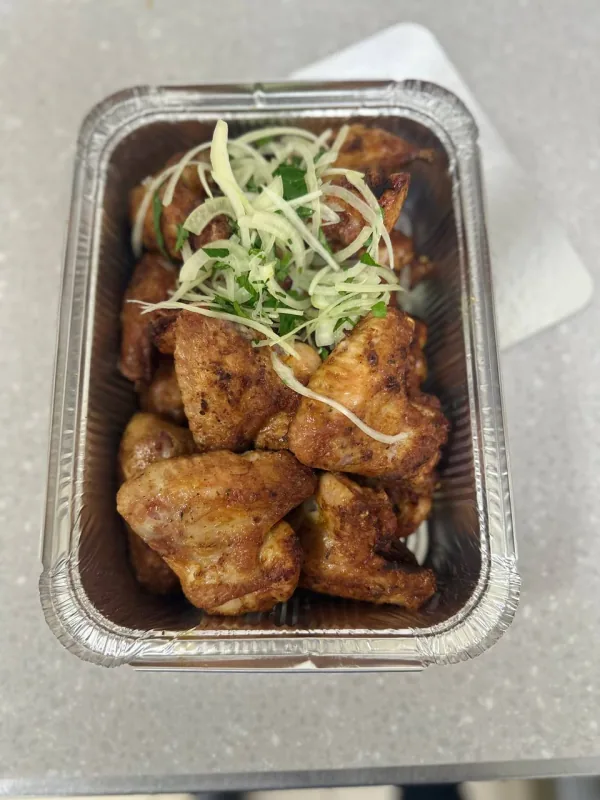
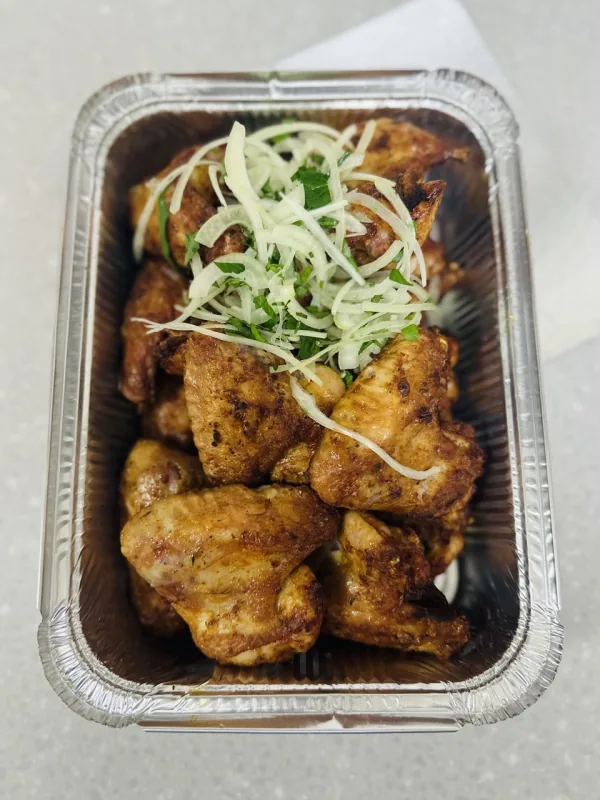
feat(delivery): add confirmed portion photos for neck wings and lyulya

diff --git a/delivery/index.html b/delivery/index.html
@@ -48,8 +48,7 @@
         <h3>Свиная шея</h3>
         <div class="dish-portions">
           <figure class="dish-portion" data-portion="200">
-            <!-- TODO-PHOTO: pork-neck, 200 g. -->
-            <div class="dish-photo"><svg width="32" height="32" aria-hidden="true"><use href="#camera"></use></svg><span>Фото порции<br>пока нет</span></div>
+            <div class="dish-photo"><img src="/assets/menu/pork-neck-200g.webp" alt="Свиная шея — 200 г, с луком и зеленью в контейнере" width="600" height="800" loading="lazy" decoding="async"></div>
             <figcaption><dl class="dish-prices"><div><dt>200 г</dt><dd><data value="300">300&nbsp;₽</data></dd></div></dl></figcaption>
           </figure>
           <figure class="dish-portion" data-portion="1000">
@@ -127,14 +126,17 @@
           </figure>
         </div>
       </article>
-      <article class="dish" data-dish="chicken-wings">
-        <div class="dish-photo"><img src="/assets/menu/chicken-wings.webp" alt="Куриные крылья с луком и зеленью в контейнере" width="600" height="800" loading="lazy" decoding="async"></div>
-        <div class="dish-main">
-          <h3>Куриные крылья</h3>
-          <dl class="dish-prices">
-            <div><dt>200 г</dt><dd><data value="280">280&nbsp;₽</data></dd></div>
-            <div><dt>1 кг</dt><dd><data value="1000">1 000&nbsp;₽</data></dd></div>
-          </dl>
+      <article class="dish dish-paired" data-dish="chicken-wings">
+        <h3>Куриные крылья</h3>
+        <div class="dish-portions">
+          <figure class="dish-portion" data-portion="200">
+            <div class="dish-photo"><img src="/assets/menu/chicken-wings.webp" alt="Куриные крылья — 200 г, с луком и зеленью в контейнере" width="600" height="800" loading="lazy" decoding="async"></div>
+            <figcaption><dl class="dish-prices"><div><dt>200 г</dt><dd><data value="280">280&nbsp;₽</data></dd></div></dl></figcaption>
+          </figure>
+          <figure class="dish-portion" data-portion="1000">
+            <div class="dish-photo"><img src="/assets/menu/chicken-wings-1kg.webp" alt="Куриные крылья — 1 кг, с луком и зеленью в контейнере" width="600" height="800" loading="lazy" decoding="async"></div>
+            <figcaption><dl class="dish-prices"><div><dt>1 кг</dt><dd><data value="1000">1 000&nbsp;₽</data></dd></div></dl></figcaption>
+          </figure>
         </div>
       </article>
       <article class="dish" data-dish="salmon-steak">
@@ -147,24 +149,30 @@
           </dl>
         </div>
       </article>
-      <article class="dish" data-dish="lyulya-pork-beef">
-        <div class="dish-photo"><img src="/assets/menu/lyulya-pork-beef.webp" alt="Люля из свинины и говядины с луком и зеленью в контейнере" width="600" height="800" loading="lazy" decoding="async"></div>
-        <div class="dish-main">
-          <h3>Люля из свинины и говядины</h3>
-          <dl class="dish-prices">
-            <div><dt>200 г</dt><dd><data value="390">390&nbsp;₽</data></dd></div>
-            <div><dt>1 кг</dt><dd><data value="1400">1 400&nbsp;₽</data></dd></div>
-          </dl>
+      <article class="dish dish-paired" data-dish="lyulya-pork-beef">
+        <h3>Люля из свинины и говядины</h3>
+        <div class="dish-portions">
+          <figure class="dish-portion" data-portion="200">
+            <div class="dish-photo"><img src="/assets/menu/lyulya-pork-beef.webp" alt="Люля из свинины и говядины — 200 г, с луком и зеленью в контейнере" width="600" height="800" loading="lazy" decoding="async"></div>
+            <figcaption><dl class="dish-prices"><div><dt>200 г</dt><dd><data value="390">390&nbsp;₽</data></dd></div></dl></figcaption>
+          </figure>
+          <figure class="dish-portion" data-portion="1000">
+            <div class="dish-photo"><img src="/assets/menu/lyulya-pork-beef-1kg.webp" alt="Люля из свинины и говядины — 1 кг, с луком и зеленью в контейнере" width="600" height="800" loading="lazy" decoding="async"></div>
+            <figcaption><dl class="dish-prices"><div><dt>1 кг</dt><dd><data value="1400">1 400&nbsp;₽</data></dd></div></dl></figcaption>
+          </figure>
         </div>
       </article>
-      <article class="dish" data-dish="lyulya-beef-lamb">
-        <div class="dish-photo"><img src="/assets/menu/lyulya-beef-lamb.webp" alt="Люля из говядины и баранины с луком и зеленью" width="600" height="800" loading="lazy" decoding="async"></div>
-        <div class="dish-main">
-          <h3>Люля из говядины и баранины</h3>
-          <dl class="dish-prices">
-            <div><dt>200 г</dt><dd><data value="390">390&nbsp;₽</data></dd></div>
-            <div><dt>1 кг</dt><dd><data value="1500">1 500&nbsp;₽</data></dd></div>
-          </dl>
+      <article class="dish dish-paired" data-dish="lyulya-beef-lamb">
+        <h3>Люля из говядины и баранины</h3>
+        <div class="dish-portions">
+          <figure class="dish-portion" data-portion="200">
+            <div class="dish-photo"><img src="/assets/menu/lyulya-beef-lamb.webp" alt="Люля из говядины и баранины — 200 г, с луком и зеленью в контейнере" width="600" height="800" loading="lazy" decoding="async"></div>
+            <figcaption><dl class="dish-prices"><div><dt>200 г</dt><dd><data value="390">390&nbsp;₽</data></dd></div></dl></figcaption>
+          </figure>
+          <figure class="dish-portion" data-portion="1000">
+            <div class="dish-photo"><img src="/assets/menu/lyulya-beef-lamb-1kg.webp" alt="Люля из говядины и баранины — 1 кг, с луком и зеленью в контейнере" width="600" height="800" loading="lazy" decoding="async"></div>
+            <figcaption><dl class="dish-prices"><div><dt>1 кг</dt><dd><data value="1500">1 500&nbsp;₽</data></dd></div></dl></figcaption>
+          </figure>
         </div>
       </article>
       <article class="dish" data-dish="lyulya-chicken">

diff --git a/tests/test_delivery_photos.py b/tests/test_delivery_photos.py
@@ -13,7 +13,8 @@ PHOTO_DISHES = {
     'grilled-vegetables', 'pizza-pepperoni',
     'chicken-wings', 'grilled-mushrooms', 'khachapuri-adjarian', 'pizza-ham',
 }
-PAIRED_PHOTOS = {'chicken-fillet', 'chicken-assortment', 'lamb-on-bone'}
+PAIRED_PHOTOS = {'chicken-fillet', 'chicken-assortment', 'lamb-on-bone', 'pork-neck',
+                 'chicken-wings', 'lyulya-pork-beef', 'lyulya-beef-lamb'}
 
 
 class MenuParser(HTMLParser):
@@ -52,12 +53,15 @@ class DeliveryPhotosTest(unittest.TestCase):
         menu = MenuParser()
         menu.feed((ROOT / 'delivery/index.html').read_text())
         expected = {
-            'pork-neck': [('200', '300', None), ('1000', '1430', 'pork-neck.webp')],
+            'pork-neck': [('200', '300', 'pork-neck-200g.webp'), ('1000', '1430', 'pork-neck.webp')],
             'pork-ribs': [('200', '300', None), ('1000', '1430', None)],
             'chicken-assortment': [('200', '260', 'chicken-assortment.webp'), ('1000', '950', 'chicken-assortment-1kg.webp')],
             'pork-loin': [('200', '300', None), ('1000', '1430', None)],
             'chicken-fillet': [('200', '280', 'chicken-fillet.webp'), ('1000', '1100', 'chicken-fillet-1kg.webp')],
             'lamb-on-bone': [('150', '650', 'lamb-on-bone.webp'), ('750', '3250', 'lamb-on-bone-750g.webp')],
+            'chicken-wings': [('200', '280', 'chicken-wings.webp'), ('1000', '1000', 'chicken-wings-1kg.webp')],
+            'lyulya-pork-beef': [('200', '390', 'lyulya-pork-beef.webp'), ('1000', '1400', 'lyulya-pork-beef-1kg.webp')],
+            'lyulya-beef-lamb': [('200', '390', 'lyulya-beef-lamb.webp'), ('1000', '1500', 'lyulya-beef-lamb-1kg.webp')],
         }
         self.assertEqual({dish for dish, portions in menu.portions.items() if portions}, set(expected))
         for dish, portions in expected.items():
